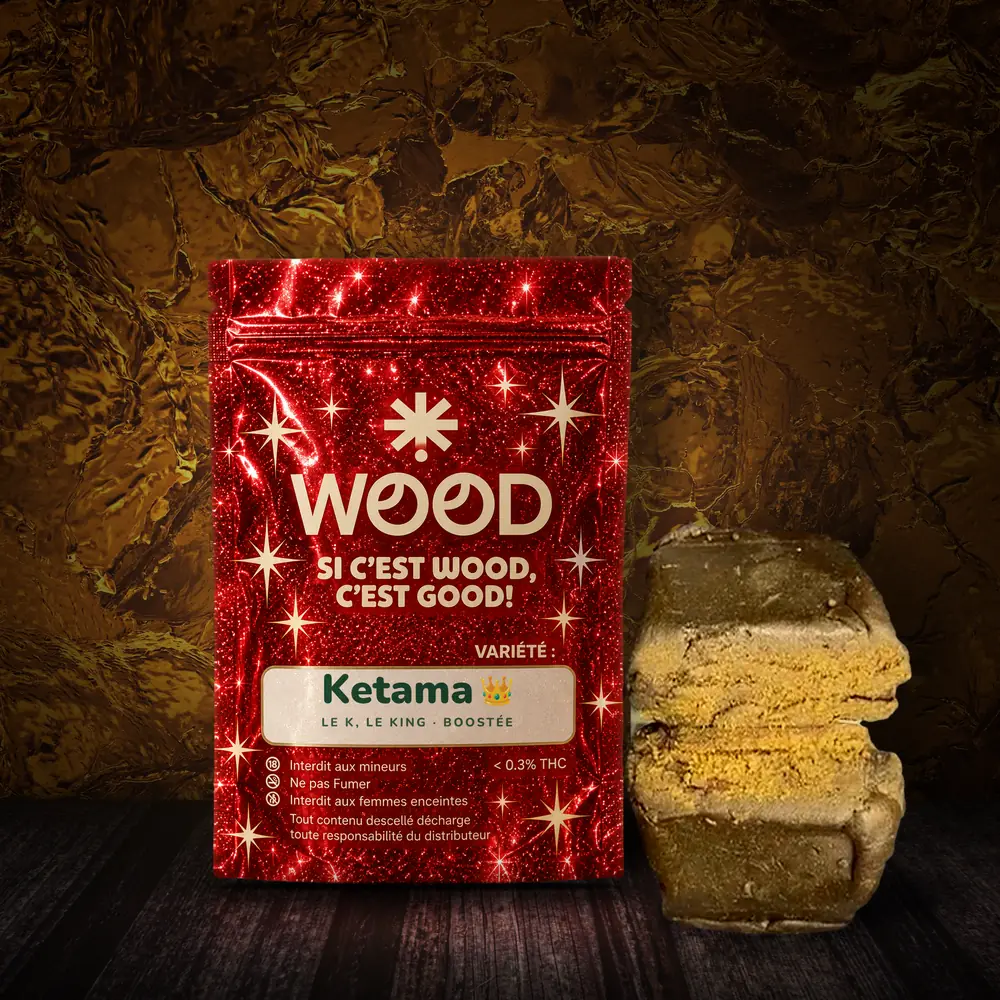
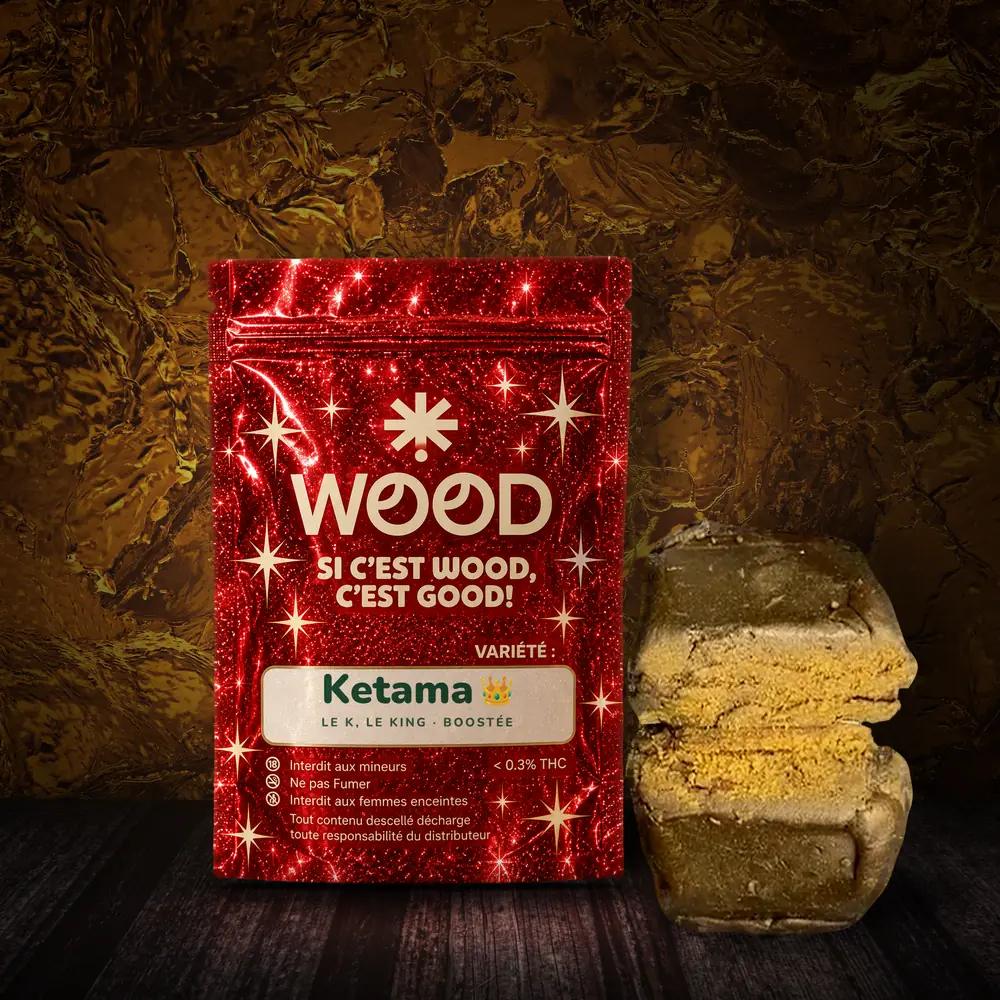
Snow (résines une par une, n° 04) + Ketama re-détourée
Snow — Florent, 26/11 : sa fiche + « j'ai que ça comme photo » (visuel d'une autre
marque, fond plage) ; « ça fait cheap », « avec les glaces c'est nul », « un fond un
peu de glace subtil » = givre, « surtout le froid ».
  · assets/products/snow.webp : la vraie résine extraite seule de cette photo (aucun
    logo, texte ni décor de l'autre visuel), vrai pochon à paillettes (champ « Snow ❄
    · EXTRACTION À FROID · BOOSTÉE »), devant des cristaux de givre discrets, lumière
    froide, parquet sombre ; seul le décor est composé.
  · app.js : sort de NOIMG, entre dans VISUELS ; accroche « Fraise & banane 🍓 · ultra
    puissant ⚡ · extraction à froid ❄ » ; DESC = sa fiche mot pour mot (😏 compris) +
    ❄⚡🍓 au titre, 🍓🍌 dans le texte ; Arôme « Fraise · banane · tropical », Gamme
    « Boostée · Extraction à froid ». Prix : p[0] 20 → 15 €/g (« Prix actuel : 15 €/g »),
    paliers 42/70/130 repris des boostées à 15 €/g — À CONFIRMER par Florent.
Ketama — « c'est très mal découpé » : contour reconstruit (forme naturelle du bloc,
la vraie fente gardée), bords cachés par les gants comblés par la vraie texture de
la résine (miroir), plus de liseré de gant.
  · IMGV v17 ; app.js v125.

Vérifié en local (Playwright) : fiches Snow et Ketama, mobile et ordinateur, 0 erreur JS.

Claude-Session: https://claude.ai/code/session_013qN9ZC6ixWq1kXPRYov7dB

Changed region(s): [[0.62, 0.496, 0.93, 0.93]]

diff --git a/cbd-claude/app.js b/cbd-claude/app.js
@@ -3,7 +3,7 @@
    Données fleurs RÉELLES (prix proprio). Profils = goût, jamais d'effet.
    =========================================================== */
 
-const IMGV = "?v=16"; /* cache-buster images (bump si régénération) — v6 le 25/11 : charlotte.webp remplacé (visuel IA de démo → vrai pochon) ; v7 le 26/11 : charlotte + venom au pochon à paillettes ; v8 le 26/11 : nimbus-3000 (vrai pochon à paillettes) ; v9 le 26/11 : transylvania-kush ; v10 le 26/11 : purple ; v11 le 26/11 : euphoria ; v12 le 26/11 : pastraweed ; v13 le 26/11 : ivory ; v14 le 26/11 : cbn-cream ; v15 le 26/11 : stoned ; v16 le 26/11 : ketama */
+const IMGV = "?v=17"; /* cache-buster images (bump si régénération) — v6 le 25/11 : charlotte.webp remplacé (visuel IA de démo → vrai pochon) ; v7 le 26/11 : charlotte + venom au pochon à paillettes ; v8 le 26/11 : nimbus-3000 (vrai pochon à paillettes) ; v9 le 26/11 : transylvania-kush ; v10 le 26/11 : purple ; v11 le 26/11 : euphoria ; v12 le 26/11 : pastraweed ; v13 le 26/11 : ivory ; v14 le 26/11 : cbn-cream ; v15 le 26/11 : stoned ; v16 le 26/11 : ketama ; v17 le 26/11 : snow + ketama re-détourée */
 
 /* L'API est-elle branchée ? Si api.js n'a pas chargé, on ne plante pas :
    le site garde son comportement hors-ligne. */
@@ -104,7 +104,9 @@ const FLEURS = [
      paliers que La Mousse à 15 €/g). Intensité HYPER STRONG : dans les notes d'Ana, « Résines FORT++ : Snow, le K
      (Ketama le King) » — le même rang que la Snow. 3 emojis : profil 🟤 · intensité 🔥 · le King 👑 (pas Premium). */
   { slug:"ketama", nom:"Ketama", tier:"boostes", type:"resine", desc:"Intense & authentique 🟤 · boostée 🔥 · le King 👑", c:["#e3cf9a","#5a4a2a"], p:[15,42,70,130], g25:260 , int:"HYPER STRONG"},
-  { slug:"snow", nom:"Snow", tier:"boostes", type:"resine", desc:"Hyper forte ❄", c:["#eef3f7","#5a6b7a"], p:[20,58,95,180], g25:360 , int:"HYPER STRONG"},
+  /* 26/11 : sa fiche (résine n° 04) — « Prix initial : 20 €/g · Prix actuel : 15 €/g » : p[0] passe à 15 ; les autres
+     paliers sont ceux des boostées à 15 €/g (à confirmer par Florent). 3 emojis : saveur 🍓 (fraise-banane) · intensité ⚡ (« ultra puissant », Florent) · le froid ❄ (extraction à froid, pas Premium). */
+  { slug:"snow", nom:"Snow", tier:"boostes", type:"resine", desc:"Fraise & banane 🍓 · ultra puissant ⚡ · extraction à froid ❄", c:["#eef3f7","#5a6b7a"], p:[15,42,70,130], g25:260 , int:"HYPER STRONG"},
 
   /* --- LA FLEUR MYSTERE N'EST PLUS ICI (14/11/2026) ---
      Elle a ete DEPLACEE dans BOUTIQUE, categorie « promos », juste en
@@ -559,7 +561,7 @@ function resineSVG(c,id){const g=`r${id}`,v=`w${id}`;return `<svg class="cloche-
 /* 13/11 : AUCUNE photo produit affichee. Ana : « les photos ca va pas » ;
    Florent : « on sait meme pas si c'est les bonnes ». Les fichiers sont
    conserves — pour en reafficher une, il suffit de retirer son slug d'ici. */
-const NOIMG=new Set(["velvet-kush","bloody-mary","cosmic-cbg","rainbow","orange-bud","plutonium","fanta-hazy","katmandou","super-dry","golden-high","jelly-high","frost","uranus","la-mousse","snow","fleur-mystere","promo-gta-15g","promo-10g","promo-20g"]);
+const NOIMG=new Set(["velvet-kush","bloody-mary","cosmic-cbg","rainbow","orange-bud","plutonium","fanta-hazy","katmandou","super-dry","golden-high","jelly-high","frost","uranus","la-mousse","fleur-mystere","promo-gta-15g","promo-10g","promo-20g"]);
 /* 25/11/2026 — LES 3 OFFRES N'ONT PAS DE PHOTO (leurs sérigraphies ont été
    retirées le 13/11, commit 8a19fd1), mais elles n'étaient pas dans NOIMG :
    le tiroir, le pochon, la recherche et les coups de cœur demandaient
@@ -583,7 +585,7 @@ const NOIMG=new Set(["velvet-kush","bloody-mary","cosmic-cbg","rainbow","orange-
    ⚠ Sortir de NOIMG est la condition écrite de retour du mot « sous
    cloche » (13 endroits, plus bas). Un pochon N'EST PAS une cloche : la
    condition n'est PAS remplie, rien n'a été remis. C'est à Florent. */
-const VISUELS=new Set(["charlotte","venom","nimbus-3000","transylvania-kush","purple","euphoria","pastraweed","ivory","cbn-cream","stoned","ketama"]);  /* 26/11 : + nimbus-3000 (n° 03), transylvania-kush (n° 04) */
+const VISUELS=new Set(["charlotte","venom","nimbus-3000","transylvania-kush","purple","euphoria","pastraweed","ivory","cbn-cream","stoned","ketama","snow"]);  /* 26/11 : + nimbus-3000 (n° 03), transylvania-kush (n° 04) */
 const visu=s=>VISUELS.has(s)?" visuel":"";
 function soonHTML(){return '<div class="img-soon"><svg width="34" height="34" viewBox="0 0 24 24" fill="none" stroke="currentColor" stroke-width="1.5" aria-hidden="true"><path d="M3 7h3l2-2h8l2 2h3v12H3z"/><circle cx="12" cy="13" r="3.4"/></svg><span>Image bientôt disponible</span></div>';}
 function carteArt(f){
@@ -854,6 +856,7 @@ const MOLEC={
   "fleur-mystere":{mol:"CBD",cls:"",ar:"Surprise"},
   "stoned":{mol:"CBD +",cls:"mol-boost",lvl:4,ia:"Ultra fort",ar:"Intense · prononcé · authentique",premium:"Boostée · Triple filtration · Best-seller WOOD"},  /* 26/11 : sa fiche */
   "ketama":{ar:"Intense · prononcé · traditionnel",premium:"Boostée · Signature WOOD"},  /* 26/11 : sa fiche ; aucune molécule */
+  "snow":{ar:"Fraise · banane · tropical",premium:"Boostée · Extraction à froid"},  /* 26/11 : sa fiche */
   "golden-high":{mol:"CBD + CBE",cls:"mol-boost",lvl:4,ia:"Ultra fort",ar:"Pollen · Exotic"},
   "jelly-high":{mol:"CBD + CBE",cls:"mol-boost",lvl:4,ia:"Ultra fort",ar:"Caramel"},
   "cbn-cream":{mol:"CBN",cls:"mol-cbg",ar:"Épicé · intense · authentique",premium:"Naturelle · inspiration afghane"},  /* 26/11 : sa fiche */
@@ -980,6 +983,10 @@ const DESC={
      champ Variété) · 🔥 boostée · 🟤 ; dans le texte 🙌 (retours clients) et ✨ (reflets dorés). « Précaution : ne
      pas chauffer » : la sienne, gardée telle quelle. « Prix : 15 €/g » doit suivre p[0] si le prix change. */
   "ketama":"KETAMA — LE K, LE KING 👑🔥🟤\nCollection Boostée | Signature WOOD\nInitialement proposée en édition limitée, la Ketama a finalement trouvé sa place dans le catalogue permanent de WOOD à la suite des retours de nos clients 🙌\nCette résine se distingue par son aspect extérieur brun aux nuances brillantes, contrastant avec un cœur clair aux magnifiques reflets dorés ✨ Sa texture particulièrement malléable, souple et non collante révèle une structure finement granuleuse.\nDotée d’un parfum intense et prononcé, la Ketama possède une identité aromatique qui rappelle les résines traditionnelles.\nCaractéristiques :\nNom : Ketama\nGamme : Boostée\nType : résine boostée\nTexture : malléable, souple et non collante\nAspect extérieur : brun et brillant\nAspect intérieur : clair et doré\nProfil aromatique : intense et prononcé\nParticularité : ancienne édition limitée devenue permanente\nPrécaution : ne pas chauffer\nPrix : 15 €/g\nWOOD — See differently. Le CBD autrement.",
+  /* 26/11/2026 — SNOW : sa fiche MOT POUR MOT (envoyée par Florent, son 😏 compris) + emojis : titre ❄ (Snow,
+     extraction à froid, le même que son champ Variété) · ⚡ ultra puissant · 🍓 fraise ; dans le texte 🍓🍌
+     (fraise, banane). « Prix initial : 20 €/g / Prix actuel : 15 €/g » : les siens. */
+  "snow":"SNOW ❄⚡🍓\nCollection Boostée | Extraction à froid\nLe Snow… Il intrigue, il surprend, il est différent. Et pour cause : il s’agit d’une extraction ! Avec son apparence cristallisée et sa couleur atypique, on pourrait presque croire qu’il s’est échappé du laboratoire de Walter White. Les fans de Breaking Bad auront la référence… 😏\nObtenu par une méthode d’extraction à froid visant à préserver la qualité des terpènes, le Snow dévoile un profil aromatique intensément fruité, dominé par de délicieuses notes de fraise et de banane, rappelant le parfum d’une véritable glace italienne 🍓🍌\nSa couleur crème, ses nuances blondes et sa texture légèrement granuleuse lui confèrent une apparence singulière. Solide, non collant et facilement malléable, il se distingue également par sa consistance.\nCaractéristiques :\nNom : Snow\nGamme : Boostée\nType : extraction\nMéthode : extraction à froid\nArômes : fraise, banane et notes tropicales\nAspect : blond clair, presque crème\nTexture : solide, malléable et non collante\nConservation : à l’abri de la chaleur et du soleil\nPrix initial : 20 €/g\nPrix actuel : 15 €/g\nWOOD — See differently. Le CBD autrement.",
   "golden-high":"Variété : Golden HIGH (BOOSTÉ/STRONG)\nLe POLLEN STRONG référence ! BOOSTÉE, un vrai voyage aromatique.\nGoût : épices exotiques, trésors des contrées lointaines. Pollen mousseux. Pas besoin de le chauffer avant de l'effriter : BEST TEXTURE EVER !\n⚠ Résine boostée, à consommer avec modération.",
   "jelly-high":"🍫 Le Caramelo qui manque à ta vie.\nHASH type Caramel de référence ! BOOSTÉE. Goût : épices exotiques.\nPas besoin de le chauffer avant de l'effriter : BEST TEXTURE EVER !\n⚠ Résine boostée, à consommer avec modération.",
   /* 26/11/2026 — CBN CREAM : sa fiche MOT POUR MOT (envoyée par Florent) + emojis : titre 🫒 (« belle olive », le

diff --git a/cbd-claude/produit.html b/cbd-claude/produit.html
@@ -21,7 +21,7 @@
    requête inutile). Même adresse exacte que app.js (IMGV), sinon l'image
    serait téléchargée deux fois. Liste et version tenues par
    wood-api/tools/test-site-prechargement.py (comparées au rendu réel). */
-(function(){var AVEC=["charlotte","venom","nimbus-3000","transylvania-kush","purple","euphoria","pastraweed","ivory","cbn-cream","stoned","ketama"],V="?v=16";
+(function(){var AVEC=["charlotte","venom","nimbus-3000","transylvania-kush","purple","euphoria","pastraweed","ivory","cbn-cream","stoned","ketama","snow"],V="?v=17";
 try{var s=new URLSearchParams(location.search).get("f");
 if(s&&AVEC.indexOf(s)>=0){var l=document.createElement("link");l.rel="preload";l.as="image";
 l.href="assets/products/"+s+".webp"+V;l.setAttribute("fetchpriority","high");document.head.appendChild(l);}}catch(e){}})();</script>
@@ -43,6 +43,6 @@ l.href="assets/products/"+s+".webp"+V;l.setAttribute("fetchpriority","high");doc
 <div data-chrome="advisor"></div>
 <nav data-chrome="botnav"></nav>
 <script src="api.js?v=6"></script>
-<script src="app.js?v=124"></script>
+<script src="app.js?v=125"></script>
 </body>
 </html>

diff --git a/cbd-claude/404.html b/cbd-claude/404.html
@@ -33,6 +33,6 @@
 </main>
 <footer data-chrome="footer"></footer><div data-chrome="advisor"></div><nav data-chrome="botnav"></nav>
 <script src="api.js?v=6"></script>
-<script src="app.js?v=124"></script>
+<script src="app.js?v=125"></script>
 </body>
 </html>

diff --git a/cbd-claude/bientot.html b/cbd-claude/bientot.html
@@ -28,6 +28,6 @@
 </main>
 <footer data-chrome="footer"></footer><div data-chrome="advisor"></div><nav data-chrome="botnav"></nav>
 <script src="api.js?v=6"></script>
-<script src="app.js?v=124"></script>
+<script src="app.js?v=125"></script>
 </body>
 </html>

diff --git a/cbd-claude/cgv.html b/cbd-claude/cgv.html
@@ -59,6 +59,6 @@
 </main>
 <footer data-chrome="footer"></footer><div data-chrome="advisor"></div><nav data-chrome="botnav"></nav>
 <script src="api.js?v=6"></script>
-<script src="app.js?v=124"></script>
+<script src="app.js?v=125"></script>
 </body>
 </html>

diff --git a/cbd-claude/confidentialite.html b/cbd-claude/confidentialite.html
@@ -51,6 +51,6 @@
 </main>
 <footer data-chrome="footer"></footer><div data-chrome="advisor"></div><nav data-chrome="botnav"></nav>
 <script src="api.js?v=6"></script>
-<script src="app.js?v=124"></script>
+<script src="app.js?v=125"></script>
 </body>
 </html>

diff --git a/cbd-claude/contact.html b/cbd-claude/contact.html
@@ -40,6 +40,6 @@
 </main>
 <footer data-chrome="footer"></footer><div data-chrome="advisor"></div><nav data-chrome="botnav"></nav>
 <script src="api.js?v=6"></script>
-<script src="app.js?v=124"></script>
+<script src="app.js?v=125"></script>
 </body>
 </html>

diff --git a/cbd-claude/faq.html b/cbd-claude/faq.html
@@ -56,6 +56,6 @@
 </main>
 <footer data-chrome="footer"></footer><div data-chrome="advisor"></div><nav data-chrome="botnav"></nav>
 <script src="api.js?v=6"></script>
-<script src="app.js?v=124"></script>
+<script src="app.js?v=125"></script>
 </body>
 </html>

diff --git a/cbd-claude/mentions-legales.html b/cbd-claude/mentions-legales.html
@@ -46,6 +46,6 @@
 </main>
 <footer data-chrome="footer"></footer><div data-chrome="advisor"></div><nav data-chrome="botnav"></nav>
 <script src="api.js?v=6"></script>
-<script src="app.js?v=124"></script>
+<script src="app.js?v=125"></script>
 </body>
 </html>

diff --git a/cbd-claude/barla.html b/cbd-claude/barla.html
@@ -95,6 +95,6 @@
 
 <footer data-chrome="footer"></footer><div data-chrome="advisor"></div><nav data-chrome="botnav"></nav>
 <script src="api.js?v=6"></script>
-<script src="app.js?v=124"></script>
+<script src="app.js?v=125"></script>
 </body>
 </html>

diff --git a/cbd-claude/borriglione.html b/cbd-claude/borriglione.html
@@ -95,6 +95,6 @@
 
 <footer data-chrome="footer"></footer><div data-chrome="advisor"></div><nav data-chrome="botnav"></nav>
 <script src="api.js?v=6"></script>
-<script src="app.js?v=124"></script>
+<script src="app.js?v=125"></script>
 </body>
 </html>

diff --git a/cbd-claude/checkout.html b/cbd-claude/checkout.html
@@ -30,6 +30,6 @@
 <div data-chrome="advisor"></div>
 <nav data-chrome="botnav"></nav>
 <script src="api.js?v=6"></script>
-<script src="app.js?v=124"></script>
+<script src="app.js?v=125"></script>
 </body>
 </html>
